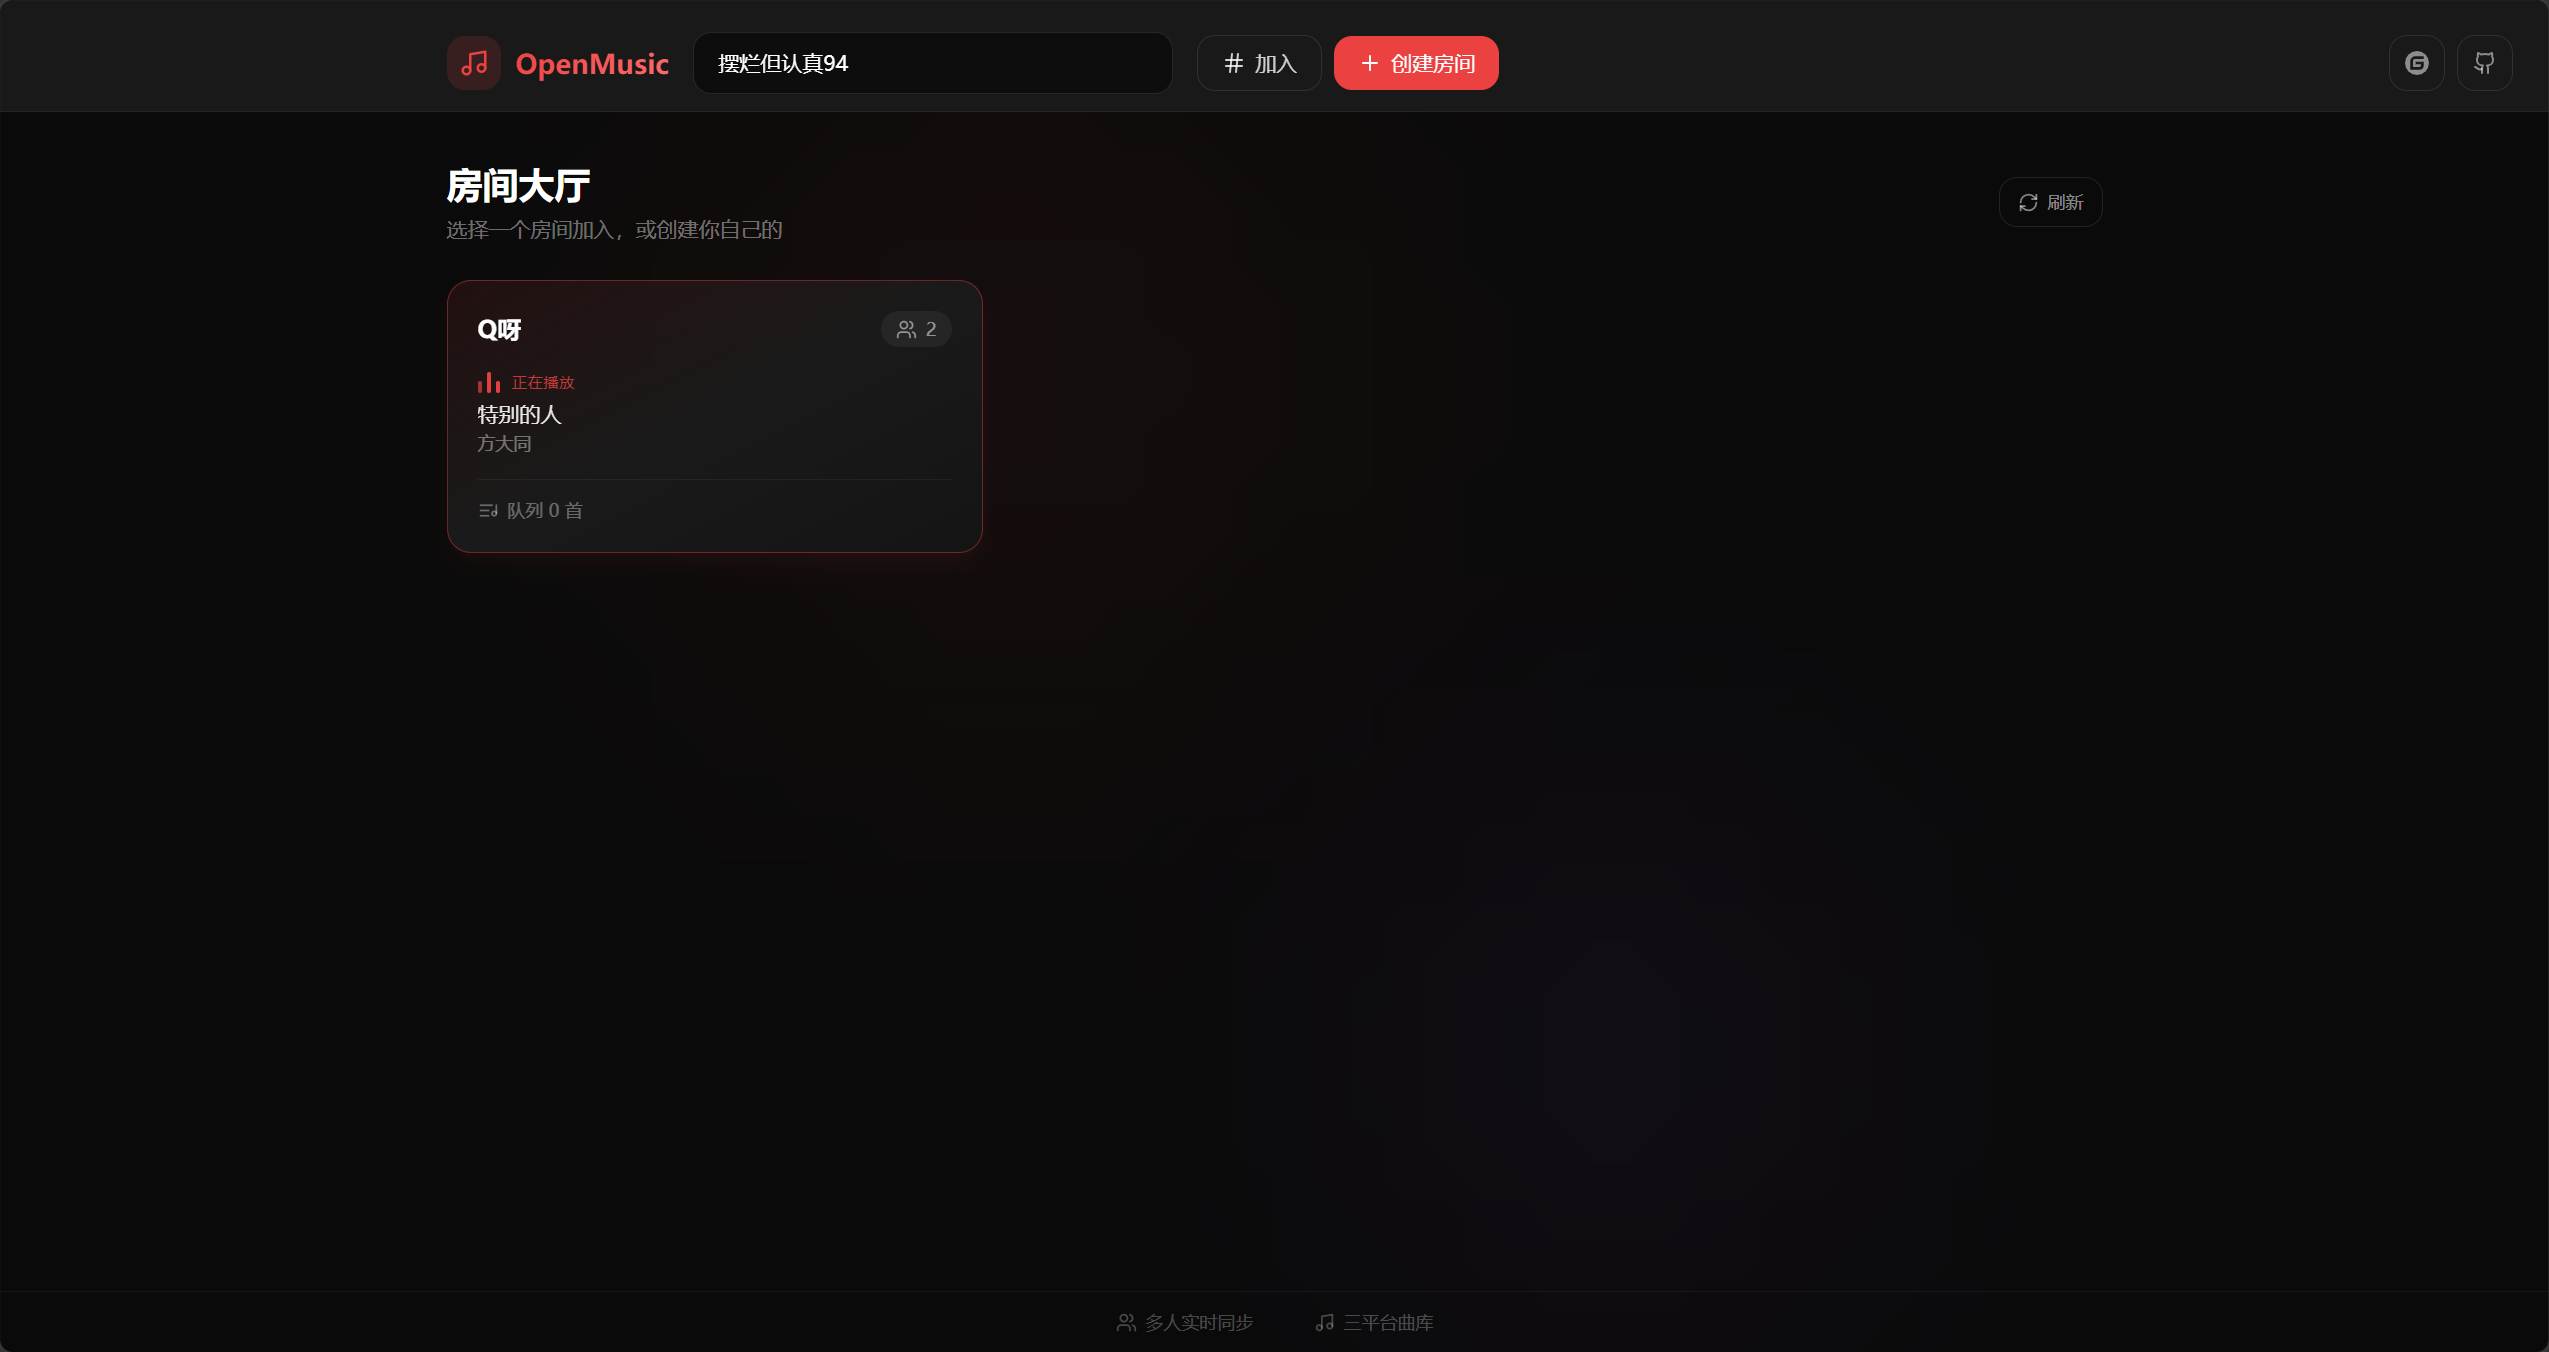
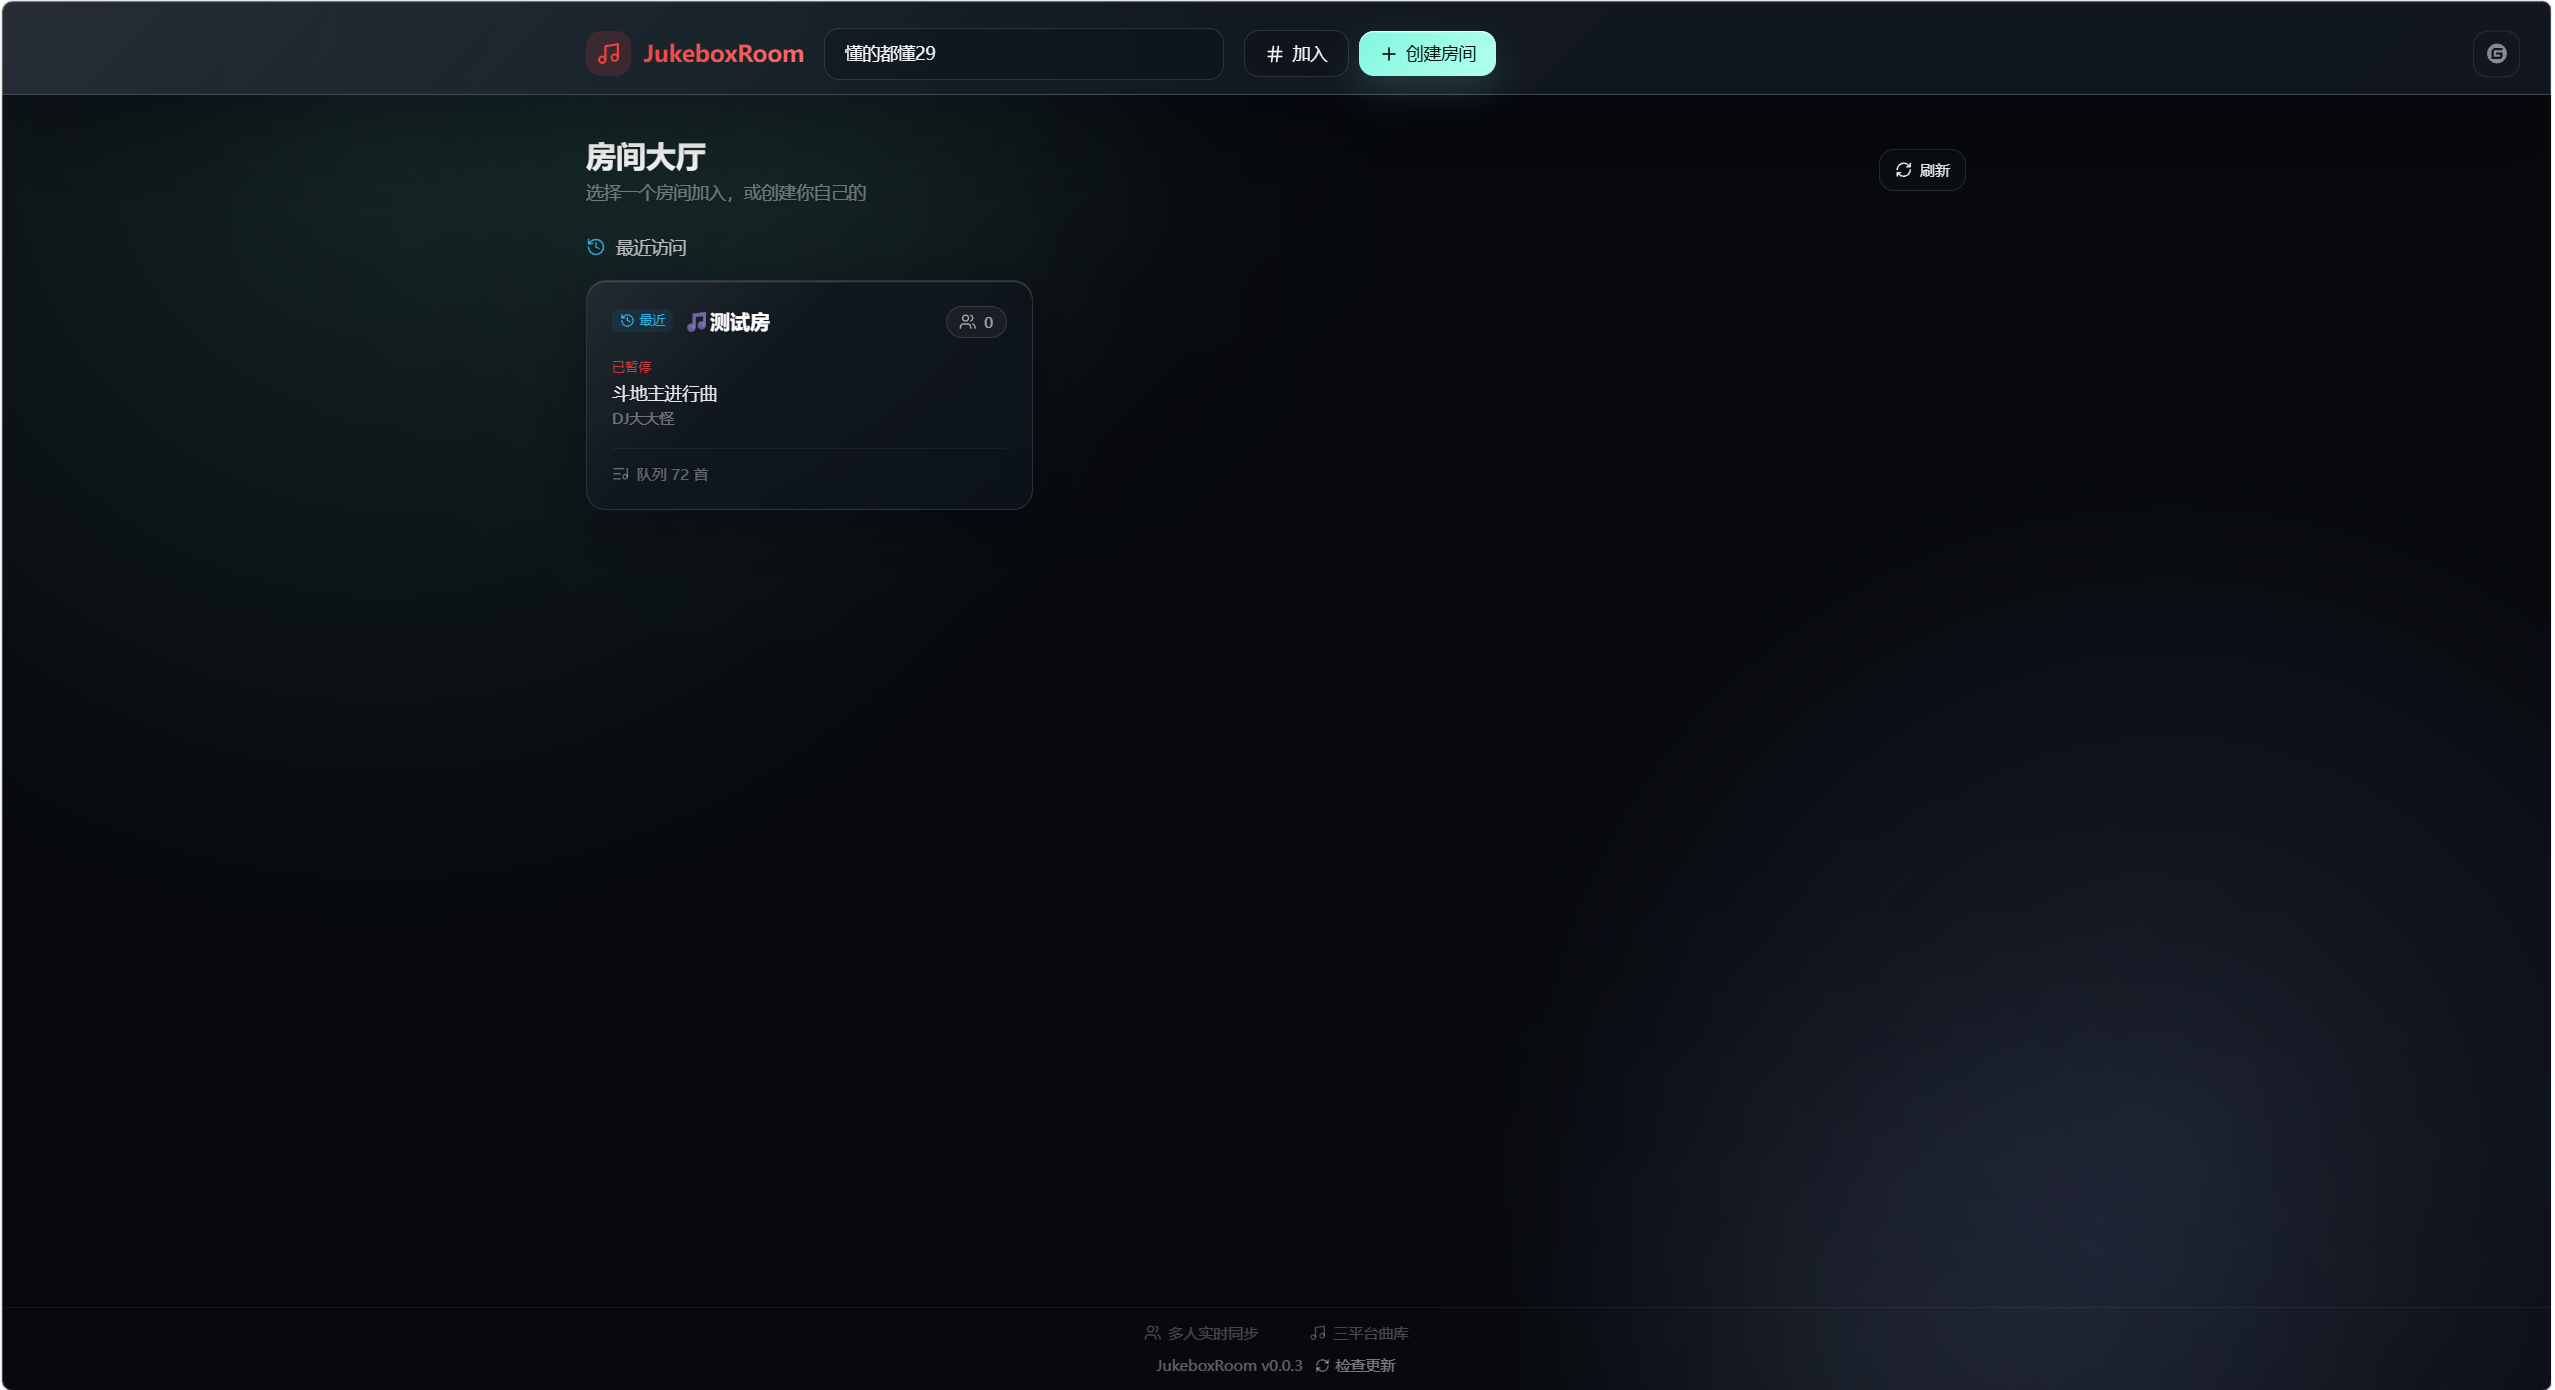
docs: 替换 README 截图为 JukeboxRoom 最新界面（含音源登录面板）

diff --git a/README.md b/README.md
@@ -2,7 +2,7 @@
 
 [![License](https://img.shields.io/badge/license-MIT-green.svg)](LICENSE)
 ![Node.js](https://img.shields.io/badge/Node.js-%E2%89%A520-brightgreen.svg)
-![Version](https://img.shields.io/badge/version-0.0.1-blue.svg)
+![Version](https://img.shields.io/badge/version-0.0.3-blue.svg)
 ![React](https://img.shields.io/badge/React-19-61dafb.svg)
 
 一群人聚在一起听歌，最怕的就是"放什么"争不出结果。JukeboxRoom 把选歌权交还给房间里的每一个人：大家各自搜歌、点歌、排队列，播放进度、歌词、聊天全部实时同步。
@@ -10,9 +10,9 @@
 - 原创作者项目：<https://github.com/qq01-hub/openmusic>（本项目基于 OpenMusic 二次开发）
 - 代码托管：Gitee <https://gitee.com/yuchen0x1/JukeboxRoom>
 
-| 房间大厅 | 房间点歌与聊天 | 唱片与歌词 |
+| 房间大厅 | 房间点歌与聊天 | 音源登录（房主专属） |
 |:---:|:---:|:---:|
-| ![房间大厅](docs/screenshots/home.png) | ![房间点歌](docs/screenshots/room.png) | ![歌词](docs/screenshots/lyrics.png) |
+| ![房间大厅](docs/screenshots/home.png) | ![房间点歌](docs/screenshots/room.png) | ![音源登录](docs/screenshots/login.png) |
 
 ## 项目简介
 
